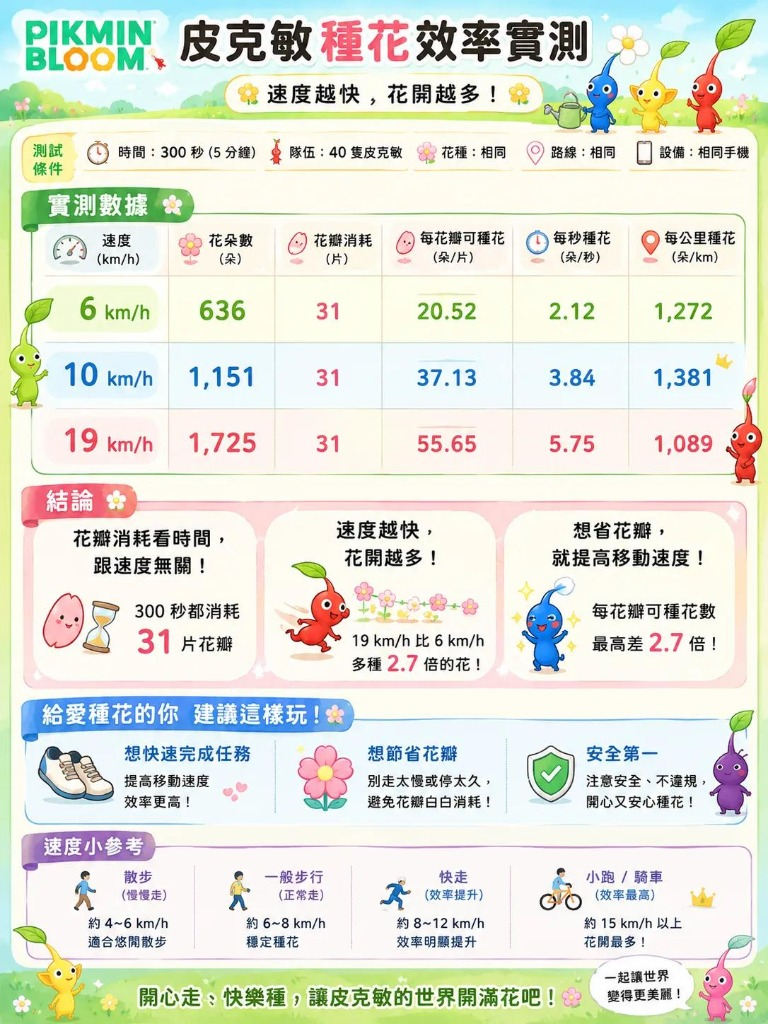
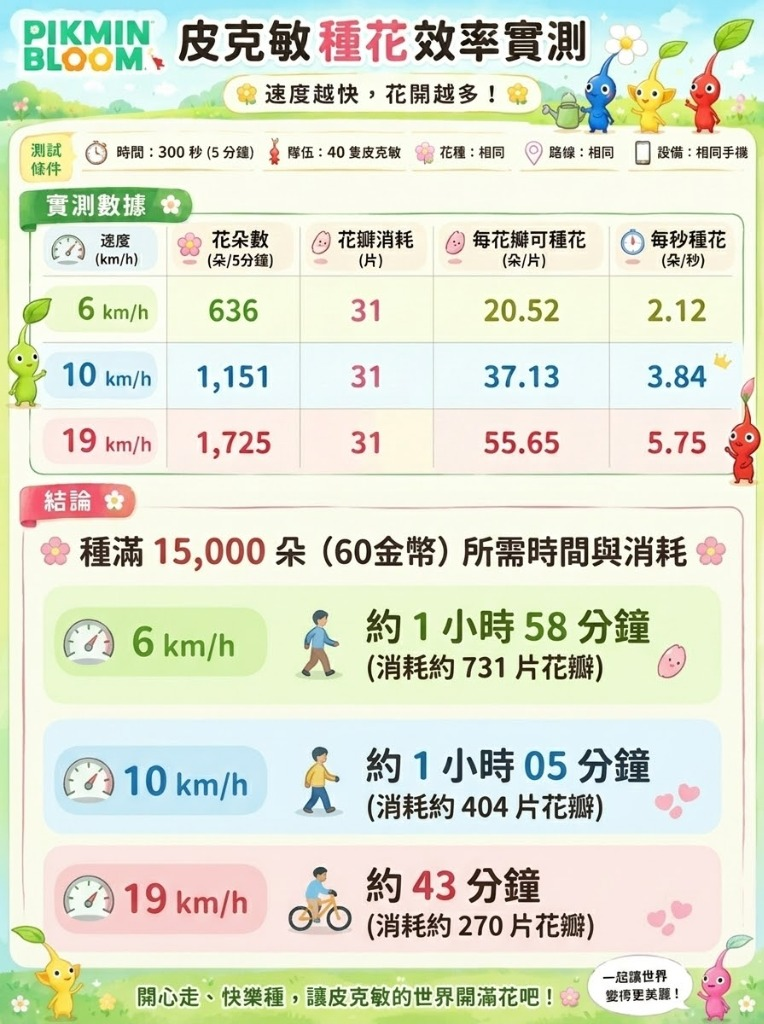
docs(tips): add 15,000 flowers daily 60 coins benchmark and update high-res infographic

diff --git a/tools/update_flower_guide.py b/tools/update_flower_guide.py
@@ -116,6 +116,12 @@ new_content = [
                 "約 29 分鐘",
                 "約 180 片 (省花瓣 ★)",
                 "將近 2 小時（需 ~750 片）"
+            ],
+            [
+                "15,000 朵（領滿 60 金幣上限 ★）",
+                "約 43 分鐘 (最速 ★)",
+                "約 270 片 (省花瓣 ★)",
+                "約 1 小時 58 分鐘（需 731 片）"
             ]
         ]
     },
